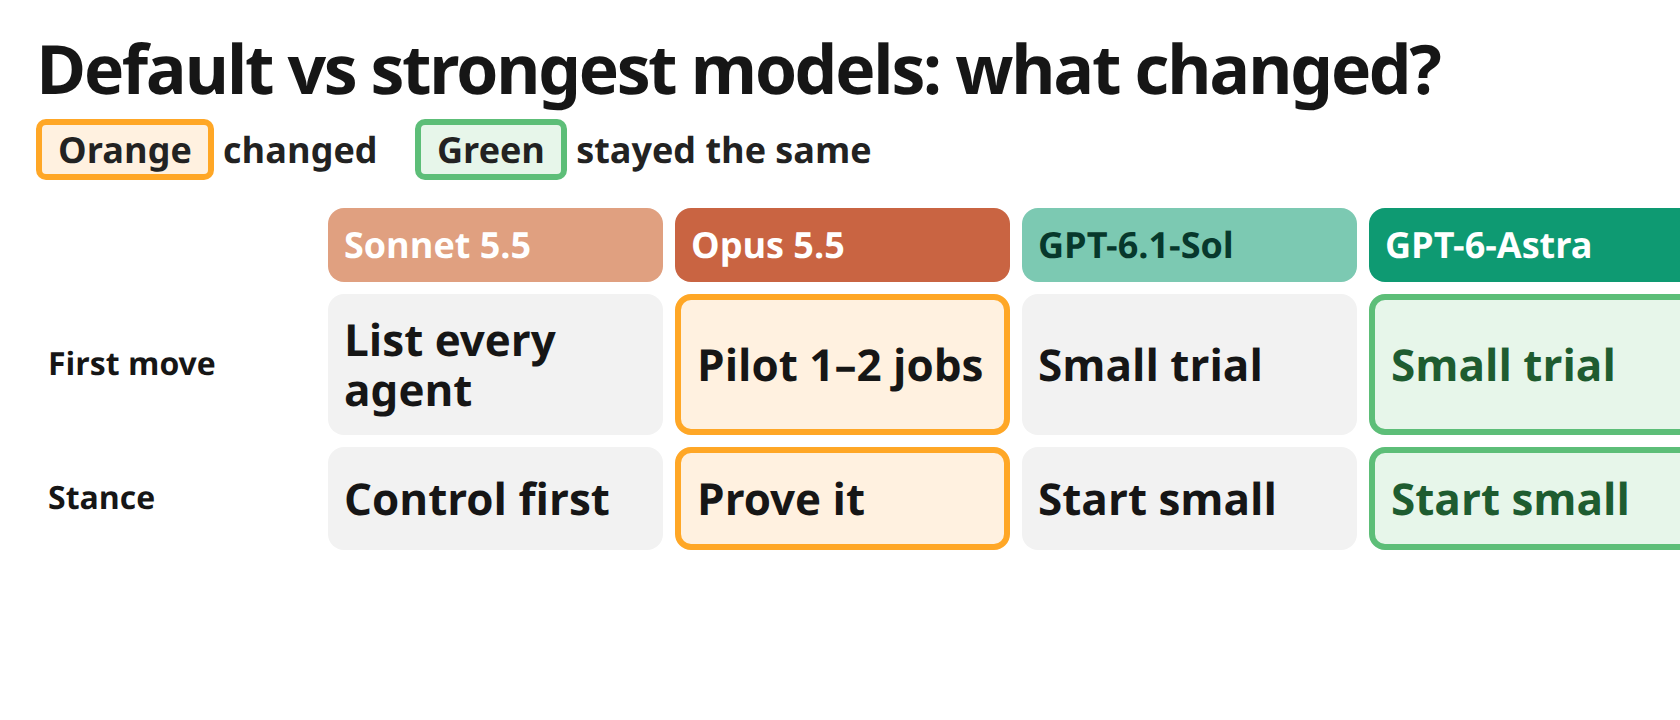
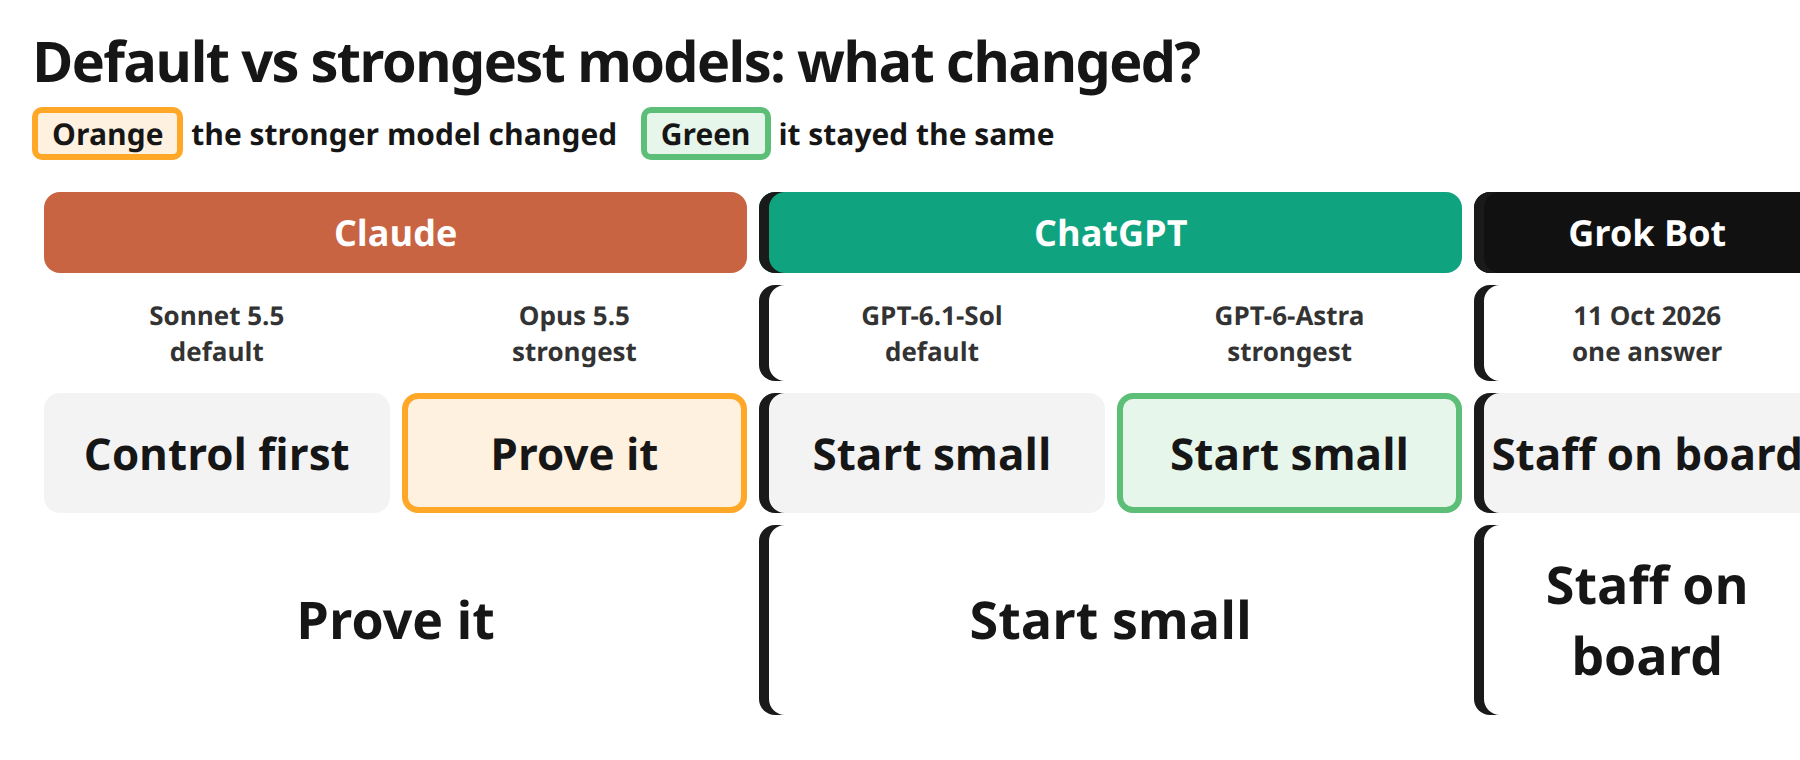
Add Grok Bot to the default-versus-strongest comparison. (#13)
The tables group Claude, ChatGPT and Grok Bot so a reader can compare platforms across a row and models within a platform. The card names all three.

diff --git a/default-vs-strongest/index.html b/default-vs-strongest/index.html
@@ -78,35 +78,58 @@
   .table-scroll { margin: 8px 0 4px; }
   table { width: 100%; border-collapse: separate; border-spacing: 6px; table-layout: fixed; }
   th { color: #fff; padding: 8px 10px; font-size: 12.5px; border-radius: 6px; text-align: left; font-weight: 650; line-height: 1.3; }
-  th.l { background: none; color: var(--ink); width: 132px; }
-  th small { display: block; font-weight: 500; opacity: 0.92; }
+  th.l { background: none; color: var(--ink); width: 108px; }
+  th.plat { text-align: center; font-size: 13px; letter-spacing: 0.04em; }
+  th.plat.claude { background: #c96442; }
+  th.plat.chat { background: #10a37f; }
+  th.plat.grok { background: #111; }
+  th.gap, td.gap { box-shadow: inset 4px 0 0 #1a1a1a; }
   .cs { background: var(--sonnet); }
   .co { background: var(--opus); }
   .gs { background: var(--sol); color: #07382c; }
   .ga { background: var(--astra); }
+  .gb { background: #111; color: #fff; }
+  .how { font-size: 0.98rem; margin: 18px 0 0; max-width: 75ch; }
   td { padding: 9px 10px; font-size: 14px; line-height: 1.35; border-radius: 6px; vertical-align: top; background: #f4f4f4; }
   td.l { background: none; font-weight: 700; font-size: 13px; }
   td.moved { background: var(--orange-soft); border: 2px solid var(--orange-line); }
   td.same { background: var(--green-soft); border: 2px solid var(--green-line); color: #444; }
   td.v { font-weight: 700; text-align: center; background: none; font-size: 13px; }
-  .insights { display: grid; grid-template-columns: repeat(3, 1fr); gap: 12px; margin-top: 8px; }
+  td.bottom { font-size: 15px; }
+  td.grok { background: #f4f4f4; border: 2px solid #111; }
+  .grok-note {
+    background: #fff;
+    border-radius: 10px;
+    border-top: 4px solid #111;
+    padding: 14px 16px 16px;
+    margin-top: 12px;
+  }
+  .grok-note h2 { margin: 0 0 8px; font-size: 1.02rem; }
+  .grok-note p { margin: 0; font-size: 0.98rem; }
+  .insights { display: grid; grid-template-columns: repeat(2, 1fr); gap: 12px; margin-top: 8px; }
   .insights article { background: #111; color: #fff; border-radius: 10px; padding: 16px; font-size: 0.95rem; line-height: 1.45; min-width: 0; overflow-wrap: break-word; }
   .insights h2 { color: #ffcc80; font-size: 1rem; margin: 0 0 8px; }
   .insights p { margin: 0 0 8px; }
   .insights p:last-child { margin: 0; }
   .foot { font-size: 13px; color: #666; margin-top: 16px; max-width: 68ch; }
+  .col-note { font-size: 13px; color: #555; margin: 4px 0 0; max-width: 72ch; }
+  .col-note a { color: #111; }
   @media (max-width: 1000px) {
     .split, .insights { grid-template-columns: 1fr; }
     h1 { font-size: 1.4rem; }
     .wrap { padding: 22px 16px 48px; }
     table { display: block; border-spacing: 0; }
     table tr { display: block; margin: 0 0 18px; }
-    table tr:first-child { display: none; }
+    table tr.heads { display: none; }
     td {
       display: block;
       width: auto;
       margin: 0 0 8px;
     }
+    td.gstart { margin-top: 12px; }
+    td.g-claude.gstart { border-top: 3px solid #c96442; }
+    td.g-chat.gstart { border-top: 3px solid #10a37f; }
+    td.g-grok.gstart { border-top: 3px solid #111; }
     td.l {
       padding: 2px 0 4px;
       margin: 0;
@@ -122,10 +145,27 @@
       line-height: 1.35;
       margin: -2px 0 6px;
     }
+    td.gstart[data-model]::before {
+      content: attr(data-platform) "\A" attr(data-model);
+      white-space: pre-line;
+    }
+    td.bottom::before {
+      content: attr(data-platform);
+      display: block;
+      font-size: 11px;
+      font-weight: 700;
+      letter-spacing: 0.04em;
+      text-transform: uppercase;
+      margin-bottom: 4px;
+    }
+    td.g-claude.bottom::before { color: #9a3e22; }
+    td.g-chat.bottom::before { color: #0a7a5e; }
+    td.g-grok.bottom::before { color: #111; }
     td.m-cs::before { color: #6b3a28; }
     td.m-co::before { color: #9a3e22; }
     td.m-gs::before { color: #0b5c48; }
     td.m-ga::before { color: #0a7a5e; }
+    td.m-gb::before { color: #111; }
     td.v { text-align: left; }
   }
 </style>
@@ -136,111 +176,152 @@
   <h1>Default vs strongest models: what changed?</h1>
 
   <div class="intro">
-    <p>I asked the same two questions a leader might ask an adviser. Each question went to four models: Claude Sonnet 5.5 (default), Claude Opus 5.5 (strongest), ChatGPT GPT-6.1-Sol (default) and ChatGPT GPT-6-Astra at high reasoning (strongest).</p>
+    <p>I asked the same two questions a leader might ask an adviser. They went to three AIs: Grok Bot, ChatGPT and Claude. Claude and ChatGPT each answered twice, on an everyday model and on a strongest model: Claude Sonnet 5.5 (default), Claude Opus 5.5 (strongest), ChatGPT GPT-6.1-Sol (default) and ChatGPT GPT-6-Astra at high reasoning (strongest). Grok Bot gave one answer. No version number is published for it, so none is shown.</p>
     <p>The answers were generated on 11 Oct 2026.</p>
     <p>The questions were a Singapore bank chief executive’s priority for the next 90 days on AI agents, and how much of the effort should go into bottom-up AI, where teams try things for themselves.</p>
-    <p class="read"><span class="swatch orange">Orange</span> means the stronger model changed the answer. <span class="swatch green">Green</span> means it gave the same answer.</p>
+    <p class="read"><span class="swatch orange">Orange</span> means the stronger model changed the answer. <span class="swatch green">Green</span> means it gave the same answer. The dark column is Grok Bot. It has one answer, so it is not marked orange or green.</p>
   </div>
 
   <div class="split">
     <article class="stayed">
       <h2>What stayed the same</h2>
-      <p>The four models already agree on the points a leader has to hold. One person stays accountable. Anything that touches money or customers needs human approval. About 30% of the effort goes to bottom-up work. The main risk is scattered pilots and data leaks. ChatGPT GPT-6.1-Sol (default) and ChatGPT GPT-6-Astra at high reasoning (strongest) were almost word for word.</p>
+      <p>ChatGPT GPT-6.1-Sol (default) and ChatGPT GPT-6-Astra at high reasoning (strongest) gave almost the same answers, and both stayed on “start small.” Bottom-up work still clusters around 30% of the effort. Grok Bot puts it at 30–40%, paid mostly in staff time. In the Claude and ChatGPT answers, one person stays accountable, and anything that touches money or customers needs human approval.</p>
     </article>
     <article class="changed">
       <h2>What changed</h2>
-      <p>Claude Opus 5.5 (strongest) moved away from Claude Sonnet 5.5 (default). It left “list every agent in use first,” a control-first stance, and said “pilot one or two back-office jobs, with controls” — prove it. On bottom-up investment it became more specific: set aside 5–10% of a team’s week, count the ideas other teams adopt, and each quarter decide whether to scale or stop.</p>
+      <p>Claude Opus 5.5 (strongest) moved away from Claude Sonnet 5.5 (default). It left “list every agent in use first,” a control-first stance, and said “pilot one or two back-office jobs, with controls” — prove it. On bottom-up investment it became more specific: set aside 5–10% of a team’s week, count the ideas other teams adopt, and each quarter decide whether to scale or stop. That is a move toward the view Grok Bot already held.</p>
     </article>
   </div>
+  <article class="grok-note">
+    <h2>How Grok Bot compared</h2>
+    <p>On both questions, Claude Opus 5.5 (strongest) moved toward the view Grok Bot already held: pilot a real process and prove it, and count the ideas other teams adopt. ChatGPT GPT-6.1-Sol (default) and ChatGPT GPT-6-Astra at high reasoning (strongest) stayed on “start small.” Grok Bot is the only one that put people first: staff ownership, customer satisfaction, recognition, and the risk that leaders don’t listen.</p>
+  </article>
+
+  <p class="how">Read across a row to compare platforms; compare the two shades within a platform to see what the stronger model changed.</p>
 
   <h2>1. A Singapore bank CEO’s 90-day priority on AI agents</h2>
   <div class="table-scroll">
     <table>
-      <tr>
+      <tr class="heads">
+        <th class="l"></th>
+        <th class="plat claude" colspan="2">Claude</th>
+        <th class="plat chat gap" colspan="2">ChatGPT</th>
+        <th class="plat grok gap" rowspan="2" title="Grok Bot doesn't use one fixed model. It picks a model for each task and doesn't show which one it used. So its answer is labelled by date, not by model version.">Grok Bot (11 Oct 2026)</th>
+      </tr>
+      <tr class="heads">
         <th class="l"></th>
         <th class="cs">Claude Sonnet 5.5 (default)</th>
         <th class="co">Claude Opus 5.5 (strongest)</th>
-        <th class="gs">ChatGPT GPT-6.1-Sol (default)</th>
+        <th class="gs gap">ChatGPT GPT-6.1-Sol (default)</th>
         <th class="ga">ChatGPT GPT-6-Astra at high reasoning (strongest)</th>
       </tr>
       <tr>
         <td class="l">First move</td>
-        <td class="m-cs" data-model="Claude Sonnet 5.5 (default)">List every agent in use</td>
+        <td class="m-cs gstart g-claude" data-platform="Claude" data-model="Claude Sonnet 5.5 (default)">List every agent in use</td>
         <td class="moved m-co" data-model="Claude Opus 5.5 (strongest)">Pilot 1–2 back-office jobs</td>
-        <td class="m-gs" data-model="ChatGPT GPT-6.1-Sol (default)">Small trial on a routine internal task</td>
+        <td class="m-gs gstart g-chat gap" data-platform="ChatGPT" data-model="ChatGPT GPT-6.1-Sol (default)">Small trial on a routine internal task</td>
         <td class="same m-ga" data-model="ChatGPT GPT-6-Astra at high reasoning (strongest)">Small trial on a routine internal task</td>
+        <td class="grok m-gb gstart g-grok gap" data-platform="Grok Bot" data-model="Grok Bot (11 Oct 2026)">Pick one painful, high-volume process (for example, customer complaints) and run AI agents on it for 90 days alongside the people doing it today</td>
       </tr>
       <tr>
         <td class="l">Safeguard</td>
-        <td class="m-cs" data-model="Claude Sonnet 5.5 (default)">Limits and an off switch</td>
+        <td class="m-cs gstart g-claude" data-platform="Claude" data-model="Claude Sonnet 5.5 (default)">Limits and an off switch</td>
         <td class="moved m-co" data-model="Claude Opus 5.5 (strongest)">Human approval for money and customers, plus traceable actions</td>
-        <td class="m-gs" data-model="ChatGPT GPT-6.1-Sol (default)">Human approval for money and customers</td>
+        <td class="m-gs gstart g-chat gap" data-platform="ChatGPT" data-model="ChatGPT GPT-6.1-Sol (default)">Human approval for money and customers</td>
         <td class="same m-ga" data-model="ChatGPT GPT-6-Astra at high reasoning (strongest)">Human approval for money and customers</td>
+        <td class="grok m-gb gstart g-grok gap" data-platform="Grok Bot" data-model="Grok Bot (11 Oct 2026)">Compare both sides weekly on speed, errors and customer satisfaction. Staff own the results</td>
       </tr>
       <tr>
         <td class="l">Stance</td>
-        <td class="m-cs" data-model="Claude Sonnet 5.5 (default)">Control first</td>
+        <td class="m-cs gstart g-claude" data-platform="Claude" data-model="Claude Sonnet 5.5 (default)">Control first</td>
         <td class="moved m-co" data-model="Claude Opus 5.5 (strongest)">Prove it, with controls</td>
-        <td class="m-gs" data-model="ChatGPT GPT-6.1-Sol (default)">Start small</td>
+        <td class="m-gs gstart g-chat gap" data-platform="ChatGPT" data-model="ChatGPT GPT-6.1-Sol (default)">Start small</td>
         <td class="same m-ga" data-model="ChatGPT GPT-6-Astra at high reasoning (strongest)">Start small</td>
+        <td class="grok m-gb gstart g-grok gap" data-platform="Grok Bot" data-model="Grok Bot (11 Oct 2026)">Prove it, with staff on board</td>
       </tr>
       <tr>
         <td class="l">Shift</td>
         <td class="m-cs" data-model="Claude Sonnet 5.5 (default)"></td>
-        <td class="v m-co" data-model="Claude Opus 5.5 (strongest)">Big move toward the others</td>
+        <td class="v m-co gstart g-claude" data-platform="Claude" data-model="Claude Opus 5.5 (strongest)">Moved toward Grok Bot</td>
         <td class="m-gs" data-model="ChatGPT GPT-6.1-Sol (default)"></td>
-        <td class="v m-ga" data-model="ChatGPT GPT-6-Astra at high reasoning (strongest)">Almost none</td>
+        <td class="v m-ga gstart g-chat gap" data-platform="ChatGPT" data-model="ChatGPT GPT-6-Astra at high reasoning (strongest)">Almost none</td>
+        <td class="v grok m-gb gstart g-grok gap" data-platform="Grok Bot" data-model="Grok Bot (11 Oct 2026)">One answer</td>
+      </tr>
+      <tr>
+        <td class="l">Bottom line</td>
+        <td class="v bottom gstart g-claude" colspan="2" data-platform="Claude">Prove it</td>
+        <td class="v bottom gstart g-chat gap" colspan="2" data-platform="ChatGPT">Start small</td>
+        <td class="v bottom grok gstart g-grok gap" data-platform="Grok Bot">Staff on board</td>
       </tr>
     </table>
   </div>
+  <p class="col-note">Grok Bot doesn't use one fixed model. It picks a model for each task and doesn't show which one it used (<a href="https://cursor.com/help/grok-bot/models">Grok Bot's help page</a>). So its answer is labelled by date, not by model version.</p>
 
   <h2>2. How much to invest in bottom-up AI</h2>
   <div class="table-scroll">
     <table>
-      <tr>
+      <tr class="heads">
+        <th class="l"></th>
+        <th class="plat claude" colspan="2">Claude</th>
+        <th class="plat chat gap" colspan="2">ChatGPT</th>
+        <th class="plat grok gap" rowspan="2" title="Grok Bot doesn't use one fixed model. It picks a model for each task and doesn't show which one it used. So its answer is labelled by date, not by model version.">Grok Bot (11 Oct 2026)</th>
+      </tr>
+      <tr class="heads">
         <th class="l"></th>
         <th class="cs">Claude Sonnet 5.5 (default)</th>
         <th class="co">Claude Opus 5.5 (strongest)</th>
-        <th class="gs">ChatGPT GPT-6.1-Sol (default)</th>
+        <th class="gs gap">ChatGPT GPT-6.1-Sol (default)</th>
         <th class="ga">ChatGPT GPT-6-Astra at high reasoning (strongest)</th>
       </tr>
       <tr>
         <td class="l">Bottom-up share</td>
-        <td class="m-cs" data-model="Claude Sonnet 5.5 (default)">20–30%</td>
+        <td class="m-cs gstart g-claude" data-platform="Claude" data-model="Claude Sonnet 5.5 (default)">20–30%</td>
         <td class="moved m-co" data-model="Claude Opus 5.5 (strongest)">About 30%</td>
-        <td class="m-gs" data-model="ChatGPT GPT-6.1-Sol (default)">30%</td>
+        <td class="m-gs gstart g-chat gap" data-platform="ChatGPT" data-model="ChatGPT GPT-6.1-Sol (default)">30%</td>
         <td class="same m-ga" data-model="ChatGPT GPT-6-Astra at high reasoning (strongest)">30%</td>
+        <td class="grok m-gb gstart g-grok gap" data-platform="Grok Bot" data-model="Grok Bot (11 Oct 2026)">30–40%, mostly paid in staff time rather than cash</td>
       </tr>
       <tr>
         <td class="l">Detail</td>
-        <td class="m-cs" data-model="Claude Sonnet 5.5 (default)">Tools, training, time, grants</td>
+        <td class="m-cs gstart g-claude" data-platform="Claude" data-model="Claude Sonnet 5.5 (default)">Tools, training, time, grants</td>
         <td class="moved m-co" data-model="Claude Opus 5.5 (strongest)">Adds 5–10% of a team’s week</td>
-        <td class="m-gs" data-model="ChatGPT GPT-6.1-Sol (default)">Tools, training, time</td>
+        <td class="m-gs gstart g-chat gap" data-platform="ChatGPT" data-model="ChatGPT GPT-6.1-Sol (default)">Tools, training, time</td>
         <td class="same m-ga" data-model="ChatGPT GPT-6-Astra at high reasoning (strongest)">Tools, training, time</td>
+        <td class="grok m-gb gstart g-grok gap" data-platform="Grok Bot" data-model="Grok Bot (11 Oct 2026)">Recognition for whoever finds the win</td>
       </tr>
       <tr>
         <td class="l">Measure</td>
-        <td class="m-cs" data-model="Claude Sonnet 5.5 (default)">Weekly users, workflows</td>
+        <td class="m-cs gstart g-claude" data-platform="Claude" data-model="Claude Sonnet 5.5 (default)">Weekly users, workflows</td>
         <td class="moved m-co" data-model="Claude Opus 5.5 (strongest)">Ideas other teams adopt; checked hours saved</td>
-        <td class="m-gs" data-model="ChatGPT GPT-6.1-Sol (default)">Savings and returns, quarterly</td>
+        <td class="m-gs gstart g-chat gap" data-platform="ChatGPT" data-model="ChatGPT GPT-6.1-Sol (default)">Savings and returns, quarterly</td>
         <td class="same m-ga" data-model="ChatGPT GPT-6-Astra at high reasoning (strongest)">Same, against a baseline</td>
+        <td class="grok m-gb gstart g-grok gap" data-platform="Grok Bot" data-model="Grok Bot (11 Oct 2026)">Ideas other teams copy without being told</td>
       </tr>
       <tr>
         <td class="l">Main risk</td>
-        <td class="m-cs" data-model="Claude Sonnet 5.5 (default)">Sprawl and data leaks</td>
+        <td class="m-cs gstart g-claude" data-platform="Claude" data-model="Claude Sonnet 5.5 (default)">Sprawl and data leaks</td>
         <td class="same m-co" data-model="Claude Opus 5.5 (strongest)">Scattered pilots and data leaks</td>
-        <td class="m-gs" data-model="ChatGPT GPT-6.1-Sol (default)">Scattered, local gains</td>
+        <td class="m-gs gstart g-chat gap" data-platform="ChatGPT" data-model="ChatGPT GPT-6.1-Sol (default)">Scattered, local gains</td>
         <td class="same m-ga" data-model="ChatGPT GPT-6-Astra at high reasoning (strongest)">Scattered, local gains</td>
+        <td class="grok m-gb gstart g-grok gap" data-platform="Grok Bot" data-model="Grok Bot (11 Oct 2026)">Leaders who don’t listen, so good ideas die locally</td>
       </tr>
       <tr>
         <td class="l">Shift</td>
         <td class="m-cs" data-model="Claude Sonnet 5.5 (default)"></td>
-        <td class="v m-co" data-model="Claude Opus 5.5 (strongest)">Sharper and more specific</td>
+        <td class="v m-co gstart g-claude" data-platform="Claude" data-model="Claude Opus 5.5 (strongest)">Sharper and more specific</td>
         <td class="m-gs" data-model="ChatGPT GPT-6.1-Sol (default)"></td>
-        <td class="v m-ga" data-model="ChatGPT GPT-6-Astra at high reasoning (strongest)">Almost word for word</td>
+        <td class="v m-ga gstart g-chat gap" data-platform="ChatGPT" data-model="ChatGPT GPT-6-Astra at high reasoning (strongest)">Almost word for word</td>
+        <td class="v grok m-gb gstart g-grok gap" data-platform="Grok Bot" data-model="Grok Bot (11 Oct 2026)">One answer</td>
+      </tr>
+      <tr>
+        <td class="l">Bottom line</td>
+        <td class="v bottom gstart g-claude" colspan="2" data-platform="Claude">Count adoption</td>
+        <td class="v bottom gstart g-chat gap" colspan="2" data-platform="ChatGPT">About 30%</td>
+        <td class="v bottom grok gstart g-grok gap" data-platform="Grok Bot">People first</td>
       </tr>
     </table>
   </div>
+  <p class="col-note">Grok Bot doesn't use one fixed model. It picks a model for each task and doesn't show which one it used (<a href="https://cursor.com/help/grok-bot/models">Grok Bot's help page</a>). So its answer is labelled by date, not by model version.</p>
 
   <h2>What this means for a leader</h2>
   <div class="insights">
@@ -258,6 +339,11 @@
       <h2>Differences get subtler, so ask harder, local questions</h2>
       <p>The remaining differences are matters of emphasis and detail. A familiar question now draws a consensus.</p>
       <p>To see a real contrast, ask a harder question that only your organisation can answer: a local process, a real constraint, or a decision you are actually facing.</p>
+    </article>
+    <article>
+      <h2>Claude Opus 5.5 (strongest) moved toward Grok Bot</h2>
+      <p>What still sets Grok Bot apart is its focus on people, not just process and controls.</p>
+      <p>Staff own the results. Customer satisfaction is part of the weekly test. The person who finds the win gets recognition. The risk it names is leaders who don’t listen, so a good idea can die in the team that found it.</p>
     </article>
   </div>
 

diff --git a/index.html b/index.html
@@ -515,7 +515,7 @@ const clusters = {
 };
 
 const projects = [
-  { title: "Default vs strongest models: what changed?", description: "The same two leadership questions, put to Claude and ChatGPT's everyday and strongest models. One AI changed its answer, one barely moved, and the best ones now agree.", cluster: "Tools & Dashboards", emoji: "⚖", date: "2026-10-11", tools: ["Claude Opus 5.5", "GPT-6-Astra"], link: "https://kr48vr.github.io/allcandesign/default-vs-strongest/", links: [], image: "images/default-vs-strongest.png", imageAlt: "Comparison table for Claude Sonnet 5.5 (default), Claude Opus 5.5 (strongest), ChatGPT GPT-6.1-Sol (default) and ChatGPT GPT-6-Astra at high reasoning (strongest). Answers generated on 11 Oct 2026. Orange cells changed; green cells stayed the same." },
+  { title: "Default vs strongest models: what changed?", description: "The same two leadership questions, put to Grok Bot, ChatGPT and Claude, on everyday and strongest models. One AI changed its answer, one barely moved, and the best ones now agree.", cluster: "Tools & Dashboards", emoji: "⚖", date: "2026-10-11", tools: ["Grok Bot", "Claude Opus 5.5", "GPT-6-Astra"], link: "https://kr48vr.github.io/allcandesign/default-vs-strongest/", links: [], image: "images/default-vs-strongest.png", imageAlt: "Comparison table for Grok Bot (11 Oct 2026), Claude Sonnet 5.5 (default), Claude Opus 5.5 (strongest), ChatGPT GPT-6.1-Sol (default) and ChatGPT GPT-6-Astra at high reasoning (strongest). Answers generated on 11 Oct 2026. Orange cells changed; green cells stayed the same. Grok Bot has one answer." },
   { title: "Where is AI now?", description: "A four-box map that sorts where AI really stands today, from simple tool to near-expert, built from 742 collected pieces. It cuts through claims that AI is 'already as smart as people' or 'just hype', and shows where it actually helps at work.", cluster: "Tools & Dashboards", emoji: "🧭", date: "2026-10-10", tools: [], link: "https://kr48vr.github.io/ai-map/", links: [], image: "images/where-is-ai-now.svg" },
   { title: "Bayesian Odds Board", description: "Weekly-updated odds on how AI is changing work and business. Each question carries a chance that moves only when new evidence arrives, with every move and its source shown, so you can see what's getting likelier and why.", cluster: "Tools & Dashboards", emoji: "🎲", date: "2026-10-06", tools: [], link: "https://kr48vr.github.io/odds-board/", links: [{ label: "Team of bots odds", url: "https://kr48vr.github.io/team-of-bots/odds/" }], image: "images/bayesian-odds-board.png" },
   { title: "Secret Levels", description: "A game-style set of short maths videos for 15-year-olds that take school topics (such as simultaneous equations → linear algebra) all the way up to today's AI, with an XP bar and a tip for teachers. King made this first, then used the Kill Bill reel and Hidden Masters as later experiments.", cluster: "Videos", emoji: "🎮", date: "2026-10-05", tools: ["Claude"], link: "https://claude.ai/artifact/YbWToWcitg4x55Q6kgsdyk", links: [], image: "images/secret-levels.png" },
